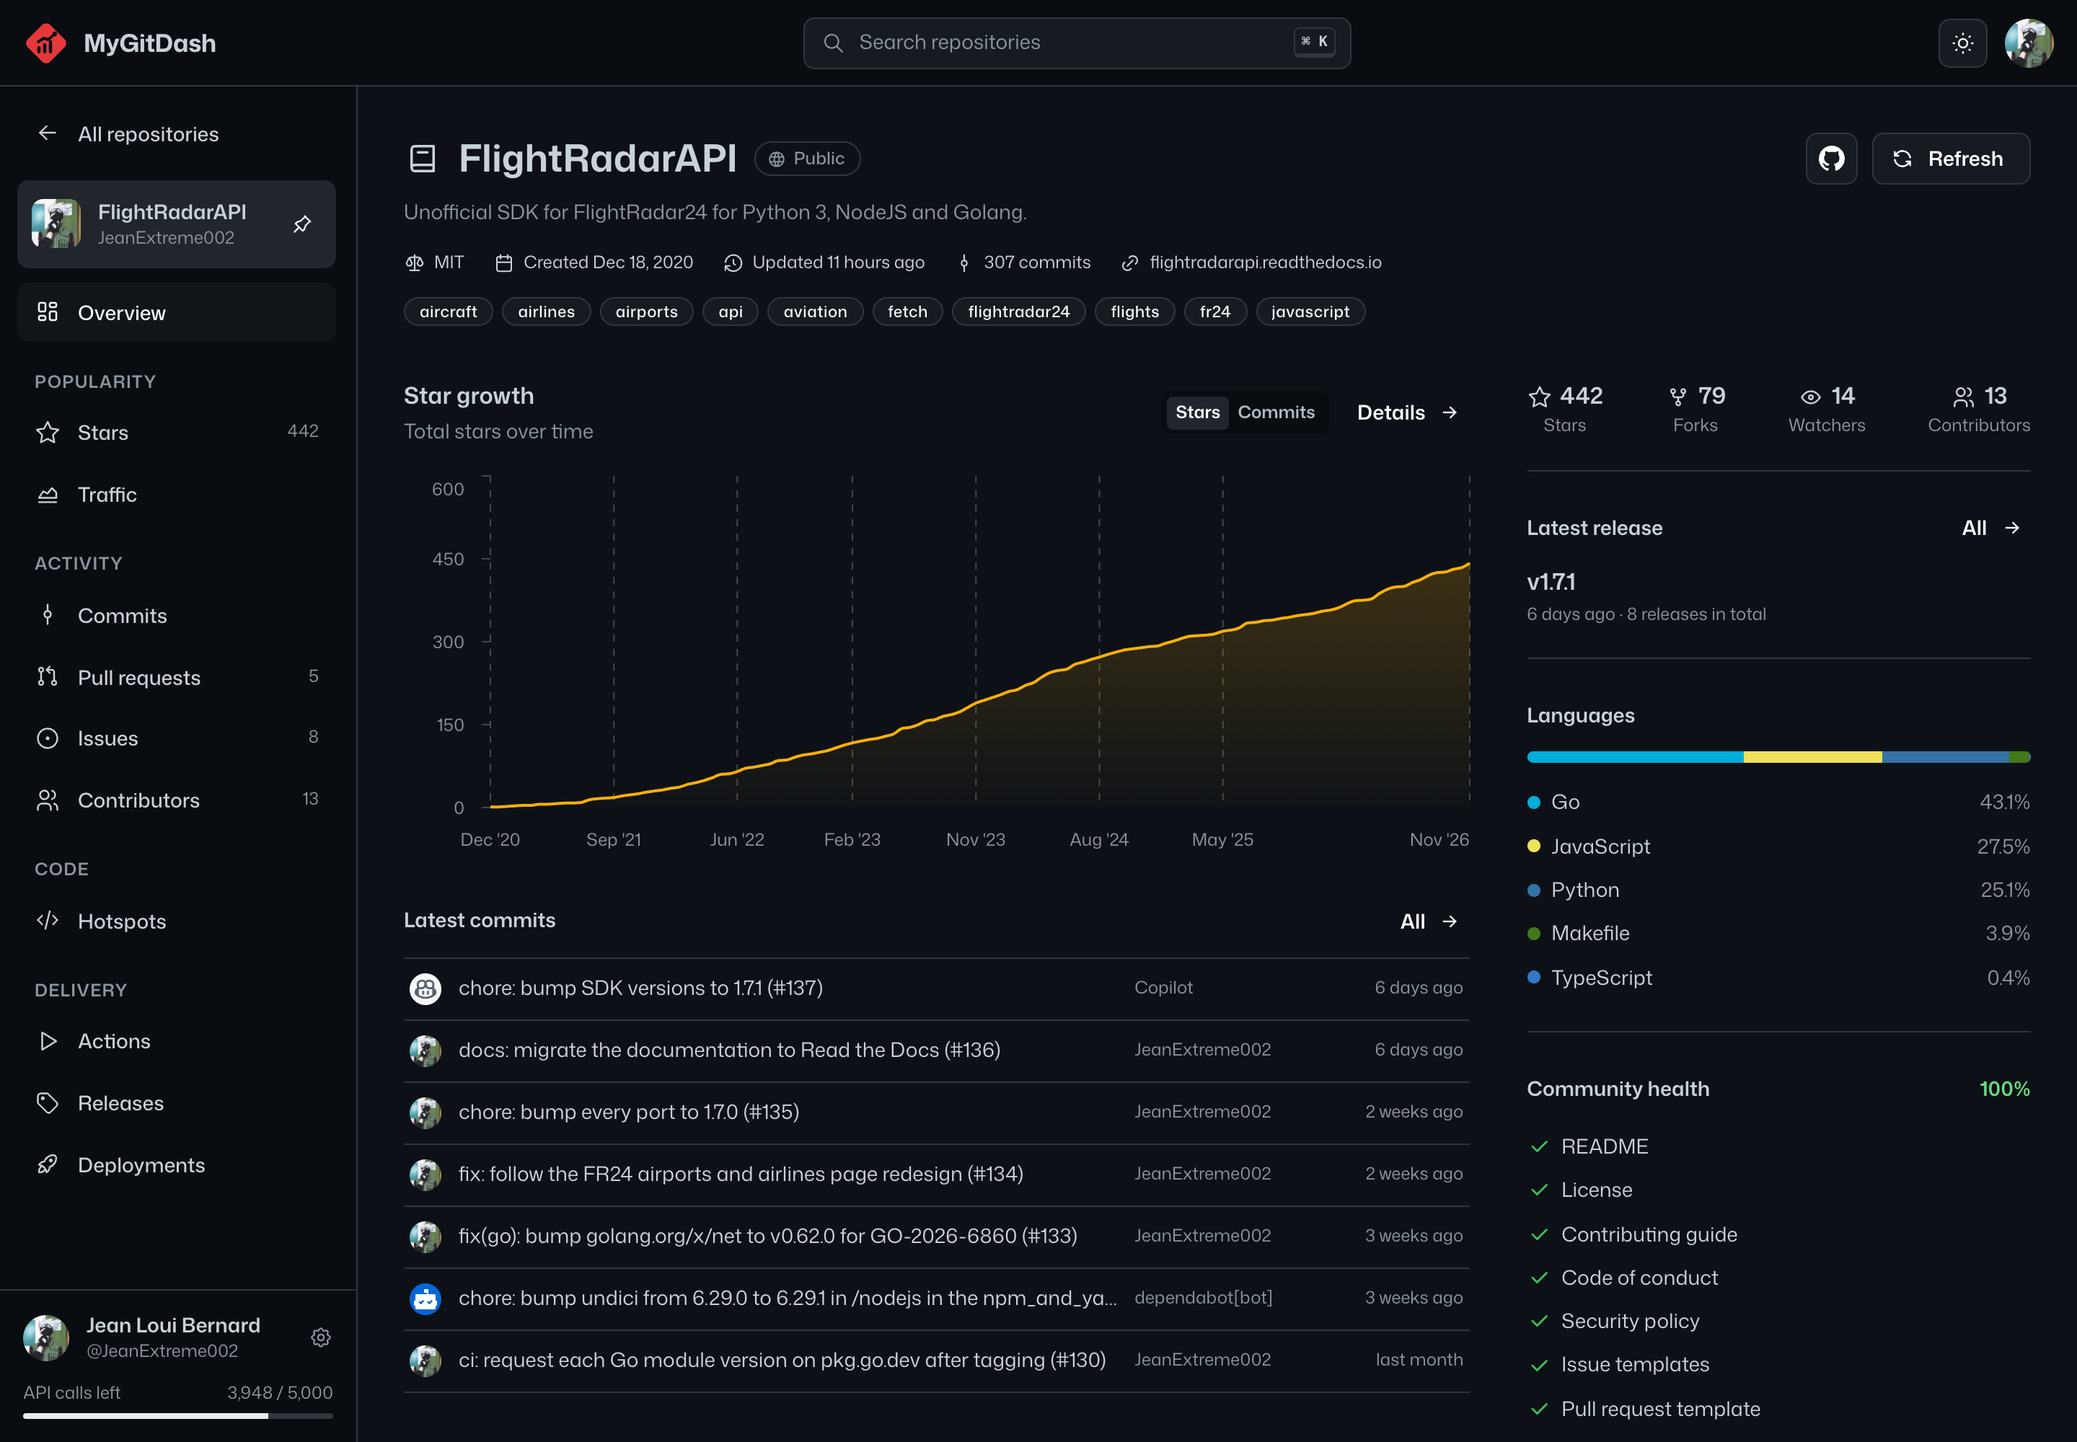
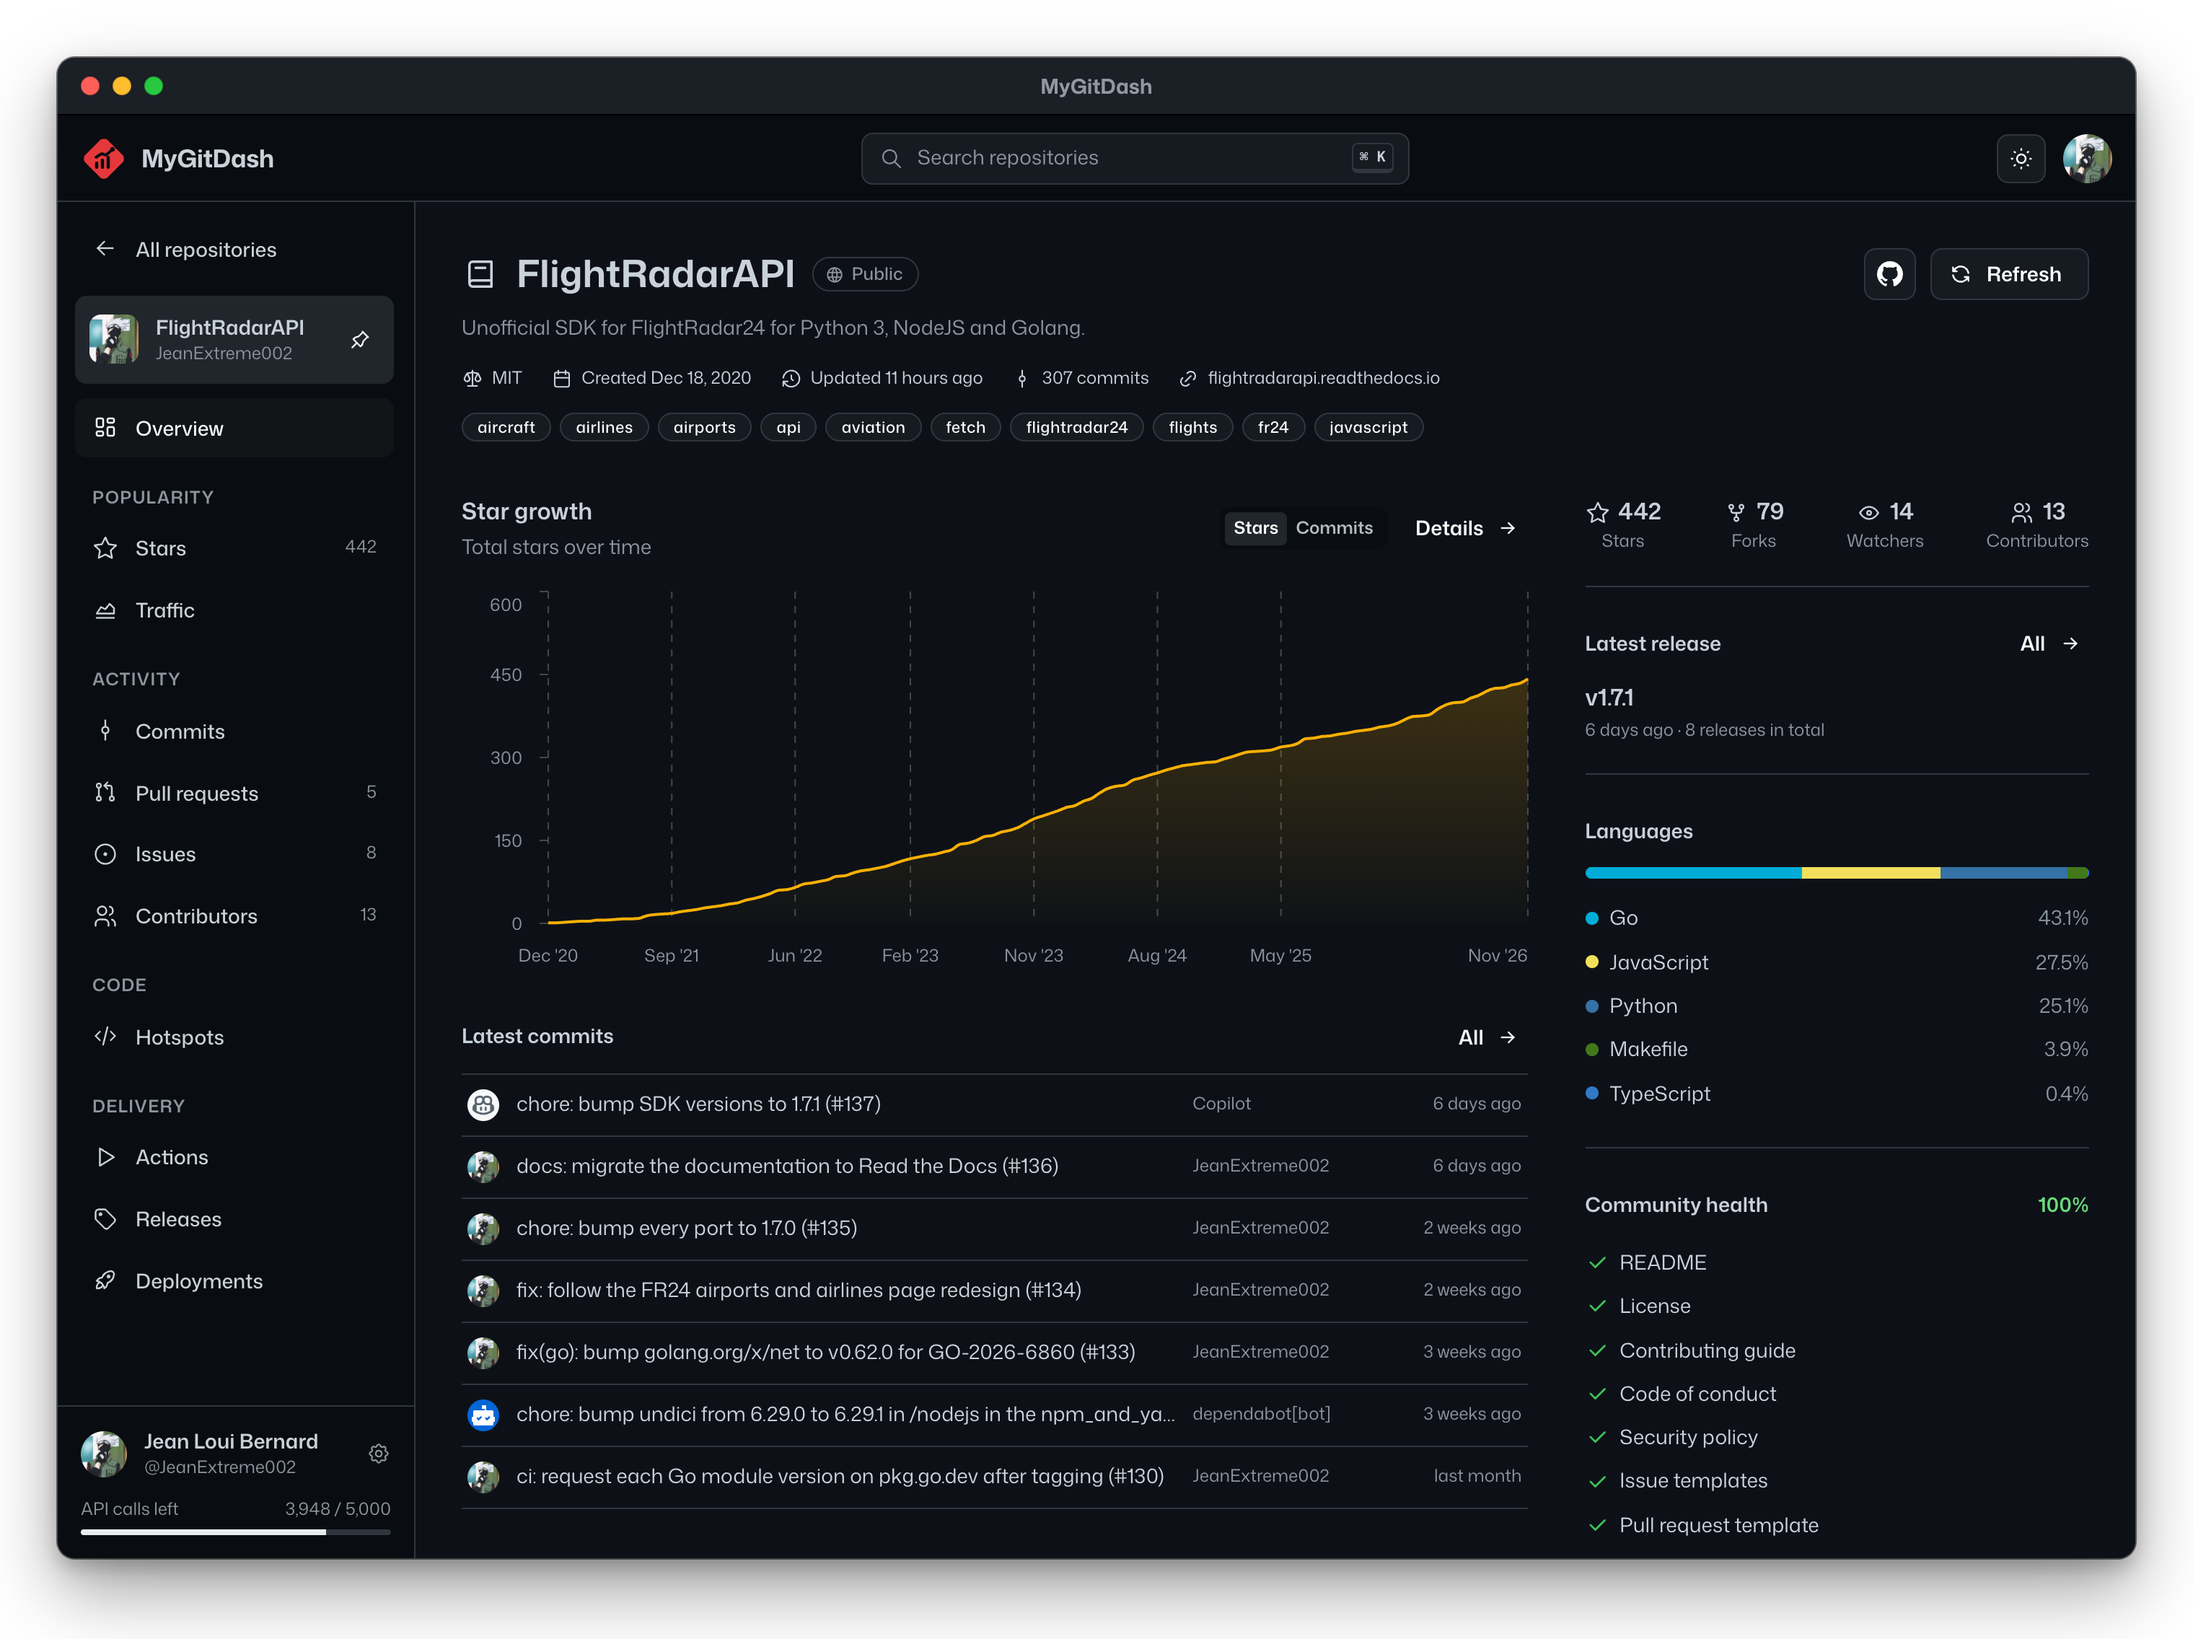
docs: make the README shorter, clearer and more visual

diff --git a/README.md b/README.md
@@ -2,24 +2,32 @@
 
 <picture>
   <source media="(prefers-color-scheme: dark)" srcset="assets/logo-dark.svg" />
-  <img src="assets/logo-light.svg" width="88" alt="MyGitDash logo" />
+  <img src="assets/logo-light.svg" width="96" alt="MyGitDash logo" />
 </picture>
 
 # MyGitDash
 
-**A beautiful dashboard for your GitHub repositories. One command, zero configuration.**
+<b>Every number behind your GitHub repositories, on one screen.</b><br>
+<i>Stars, traffic, commits, pull requests and CI health. Running on your machine, one command away.</i>
 
-[![npm](https://img.shields.io/npm/v/mygitdash?color=1f6feb)](https://www.npmjs.com/package/mygitdash)
+<br>
+
 [![CI](https://github.com/JeanExtreme002/MyGitDash/actions/workflows/ci.yml/badge.svg)](https://github.com/JeanExtreme002/MyGitDash/actions/workflows/ci.yml)
 [![codecov](https://codecov.io/gh/JeanExtreme002/MyGitDash/graph/badge.svg)](https://codecov.io/gh/JeanExtreme002/MyGitDash)
+[![npm](https://img.shields.io/npm/v/mygitdash?logo=npm&color=red)](https://www.npmjs.com/package/mygitdash)
+[![Node Version](https://img.shields.io/badge/node-20.19+-339933?logo=nodedotjs&logoColor=white)](https://nodejs.org)
+[![Platforms](https://img.shields.io/badge/platform-Windows%20%7C%20Linux%20%7C%20macOS-blue)](#quick-start)
 [![License: MIT](https://img.shields.io/badge/license-MIT-green.svg)](LICENSE)
-[![GitHub stars](https://img.shields.io/github/stars/JeanExtreme002/MyGitDash?style=social)](https://github.com/JeanExtreme002/MyGitDash/stargazers)
 
-<img src="assets/overview.png" alt="Overview of a repository in MyGitDash" width="900" />
+<br>
+
+<img src="assets/overview.png" alt="MyGitDash showing the overview of a repository" width="880" />
 
 </div>
 
-GitHub knows a lot about your projects, but it is scattered across a dozen tabs, and some of it, like traffic, disappears after two weeks. MyGitDash gathers all of it into a calm, fast dashboard that runs on your own computer. Sign in with your GitHub account and every repository you own is ready to explore, with nothing to configure.
+<br>
+
+GitHub spreads your project's numbers across a dozen tabs and deletes traffic after 14 days. **MyGitDash brings them together in one fast dashboard**, and keeps the history GitHub throws away.
 
 ## Quick start
 
@@ -29,46 +37,56 @@ You only need [Node.js](https://nodejs.org) 20.19 or newer.
 npx mygitdash
 ```
 
-Your browser opens on `http://localhost:4280`. Sign in and you are done. If you prefer a permanent command, install it globally with `npm install -g mygitdash` and run `mygitdash` whenever you like.
+Your browser opens on [http://localhost:4280](http://localhost:4280). Sign in and you are done.
 
-## What you get
+Prefer a permanent command? Install it globally:
 
-Each repository has its own space, split into short, focused pages so you can find an answer without wading through charts you don't need.
+```bash
+npm install -g mygitdash
+mygitdash
+```
 
-| Page              | What it answers                                                                                       |
-| ----------------- | ----------------------------------------------------------------------------------------------------- |
-| **Overview**      | The essentials at a glance: stars, forks, languages, community health and the latest release.         |
-| **Stars**         | Your full star history, new stars per month, your best month and how the last 30 days went.           |
-| **Traffic**       | Views, unique visitors, clones, top referrers and most visited pages.                                 |
-| **Commits**       | A contribution calendar, weekly activity, code frequency and the hours your team actually works.      |
-| **Pull requests** | Merge rate, median time to merge, PR sizes, top authors and the pull requests waiting the longest.    |
-| **Issues**        | Opened versus closed over time, time to close, most used labels and the oldest open issues.           |
-| **Contributors**  | Who builds the project, how many people were active recently, newcomers per month and the bus factor. |
-| **Hotspots**      | The files and folders that change the most, shown as a treemap of your codebase.                      |
-| **Actions**       | Success rate, failures, typical duration and run time for every workflow in the last 30 days.         |
-| **Releases**      | Release cadence, asset downloads and a timeline of what you shipped.                                  |
-| **Deployments**   | Deployments per environment, their status and how often you go live.                                  |
+## What's inside
 
-The home page gives you the big picture across everything you own: totals, pinned projects, a ranking of your repositories by stars, recent activity or traffic, and the languages you use. The Repositories page lists every repository you can reach, with filters by account, language and visibility, and you can jump to any of them from anywhere with <kbd>⌘</kbd> <kbd>K</kbd>. Light and dark themes are both included.
+<table>
+  <tr>
+    <td width="50%"><img src="assets/stars.png" alt="Stars page" /></td>
+    <td width="50%"><img src="assets/commits.png" alt="Commits page" /></td>
+  </tr>
+  <tr>
+    <td align="center"><b>Stars</b><br>Full history, monthly growth and milestones</td>
+    <td align="center"><b>Commits</b><br>Contribution calendar, code frequency and work hours</td>
+  </tr>
+  <tr>
+    <td width="50%"><img src="assets/pulls.png" alt="Pull requests page" /></td>
+    <td width="50%"><img src="assets/actions.png" alt="Actions page" /></td>
+  </tr>
+  <tr>
+    <td align="center"><b>Pull requests</b><br>Merge rate, sizes, authors and what is waiting</td>
+    <td align="center"><b>Actions</b><br>Success rate, failures and run time of every workflow</td>
+  </tr>
+</table>
 
-<div align="center">
-<img src="assets/stars.png" alt="Stars page" width="440" />
-<img src="assets/commits.png" alt="Commits page" width="440" />
-<img src="assets/pulls.png" alt="Pull requests page" width="440" />
-<img src="assets/actions.png" alt="Actions page" width="440" />
-</div>
+Also **Overview**, **Traffic**, **Issues**, **Contributors**, **Hotspots**, **Releases** and **Deployments** for each repository, a home page across everything you own, and <kbd>⌘</kbd> <kbd>K</kbd> to jump to any repository. Light and dark themes included.
+
+## Follow how your projects grow
+
+See where every repository is heading: stars gained, release cadence, how fast pull requests land and how healthy your CI is. Pin the projects you care about, and the home page ranks all of them by stars, activity or traffic.
 
 ## Traffic history that never expires
 
-GitHub only keeps the last 14 days of traffic. Every time you open the Traffic page, MyGitDash saves that window on your machine and merges it with what it saw before. Open it every week or two and you build a complete, permanent history of your views and clones, something GitHub itself does not offer.
+GitHub keeps only the last 14 days of traffic. MyGitDash saves each window on your machine and merges it with what it saw before, so your views and clones history keeps growing for as long as you use it.
 
 ## Signing in
 
-MyGitDash supports three ways to sign in, and the login screen only shows the ones available on your machine. **Sign in with GitHub** opens GitHub in your browser and asks you to confirm a short code, the same flow used by the GitHub CLI. If you already use the [GitHub CLI](https://cli.github.com), **Continue with GitHub CLI** reuses that session in one click. You can also paste a [personal access token](https://github.com/settings/tokens/new?scopes=repo,read:user,read:org&description=MyGitDash) with the `repo` and `read:user` scopes.
+- **GitHub CLI:** if you use the [GitHub CLI](https://cli.github.com), one click reuses your session.
+- **Personal access token:** paste a [token](https://github.com/settings/tokens/new?scopes=repo,read:user,read:org&description=MyGitDash) with the `repo`, `read:user` and `read:org` scopes.
+
+Have your own GitHub OAuth App? Set `MYGITDASH_CLIENT_ID` to also get a **Sign in with GitHub** button that confirms a short code in your browser.
 
 ## Privacy
 
-MyGitDash has no backend, no account and no analytics. It is a small server that listens only on `127.0.0.1` and talks to nothing but `api.github.com`. Your token, pinned repositories, cache and traffic history live in `~/.mygitdash`, readable only by your user. Signing out deletes the token.
+No backend, no account, no analytics. MyGitDash listens only on `127.0.0.1` and talks only to `api.github.com`. Your token, pins, cache and traffic history stay in `~/.mygitdash`, readable only by you. Signing out deletes the token.
 
 ## Options
 
@@ -81,12 +99,15 @@ mygitdash [options]
   -h, --help           Show this message
 ```
 
-Set `MYGITDASH_HOME` to keep the data somewhere other than `~/.mygitdash`, or `MYGITDASH_CLIENT_ID` to sign in through your own GitHub OAuth App.
+| Variable              | What it does                                               |
+| --------------------- | ---------------------------------------------------------- |
+| `MYGITDASH_HOME`      | Keeps the data somewhere other than `~/.mygitdash`         |
+| `MYGITDASH_CLIENT_ID` | Enables **Sign in with GitHub** through your own OAuth App |
 
 ## Contributing
 
-Ideas, bug reports and pull requests are very welcome. [CONTRIBUTING.md](CONTRIBUTING.md) explains how to run the project locally in a couple of minutes. If MyGitDash is useful to you, a star on the repository helps other people find it.
+Ideas, bug reports and pull requests are welcome. [CONTRIBUTING.md](CONTRIBUTING.md) shows how to run the project locally in a couple of minutes.
 
 ## License
 
-MyGitDash is released under the [MIT License](LICENSE).
+[MIT](LICENSE)
